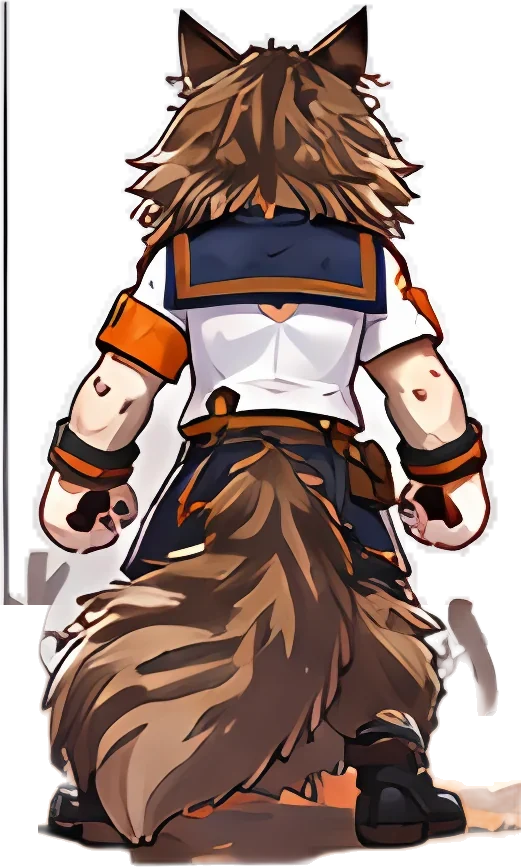
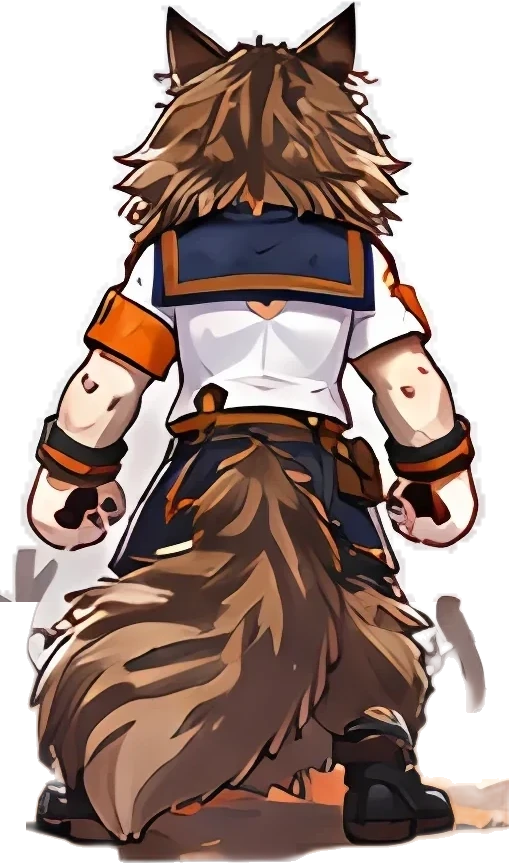
고양이 크기 통일: 전투 그림을 폭 대신 '키' 기준으로
- 뒷모습 20종 모두 귀~발끝 전신이라 같은 키로 그리면 몸집이 맞음 (꼬리·털이 넓은 고양이가 작아 보이던 문제 해결)
- 공격 포즈는 자세별 몸집 보정값으로 머리 크기를 뒷모습과 맞춤
- 그림 가장자리의 얇은 선·조각 제거 (메인쿤·흰둥이 등)
- 공격 포즈가 있는 고양이는 등 뒤에 뜨던 빛 덩어리 제거

Claude-Session: https://claude.ai/code/session_012BvuQNGeRVwHR6y1eZW9hy

diff --git a/src/render.ts b/src/render.ts
@@ -911,6 +911,15 @@ function drawEnemy(ctx: Ctx, e: Enemy): void {
 
 // ───────────────────────── 고양이 부대 ─────────────────────────
 
+/** 전투 뒷모습 키 (고양이 크기 s 대비) */
+const BACK_H = 4.2;
+/** 공격 포즈 몸집 보정 (같은 키로 그렸을 때 머리 크기를 뒷모습과 맞춘 값) */
+const ATK_SCALE: Record<string, number> = {
+  cheese: 0.93, godeungeo: 1, huindungi: 1, chaos: 1.06, cheesetabby: 1, tuxedo: 1, samsaek: 1.06, russianblue: 1.32,
+  scottish: 0.85, munchkin: 1.04, persian: 1, mainecoon: 0.9, siamese: 1, cow: 1.15, americanshort: 1.15,
+  abyssinian: 0.94, norwegian: 0.95, ragdoll: 1, sphynx: 1.12,
+};
+
 function drawSquad(ctx: Ctx, game: Game, t: number): void {
   const order = game.squad.filter((m) => m.level > 0).sort((a, b) => a.y - b.y);
   const crowd = order.length >= 6 ? 0.88 : 1;
@@ -955,17 +964,16 @@ function drawSquad(ctx: Ctx, game: Game, t: number): void {
     if (enter > 0) ctx.scale(1 - enter * 0.3, 1 + enter * 0.2);
     const atkArt = m.swing > 0.35 || m.ultT > 0 && m.swing > 0.1 ? getWorld(`atk-${m.def.id}`) ?? (m.slot === 0 ? getWorld('cheese-attack') : null) : null;
     const art = getArt(m.def.id, 'back');
+    // 크기는 '키' 기준으로 통일 (모든 뒷모습이 귀~발끝 전신이라 키가 같으면 몸집도 같아 보임)
+    const backH = s * BACK_H;
     if (atkArt) {
-      // 공격하는 순간엔 공격 포즈 (발 위치를 맞추고, 높이는 평소 뒷모습과 비슷하게)
-      const baseH = art ? (art.naturalHeight / art.naturalWidth) * s * 2.35 : s * 3.3;
-      const h = baseH * 1.04;
+      // 공격 포즈: 웅크리거나 팔을 든 자세라 고양이마다 몸집 보정값을 곱한다
+      const h = backH * (ATK_SCALE[m.def.id] ?? 1);
       const w = (atkArt.naturalWidth / atkArt.naturalHeight) * h;
       ctx.drawImage(atkArt, -w / 2, -h + s * 0.25, w, h);
     } else if (art) {
-      // 일러스트 뒷모습: 공격할 때 살짝 튕기듯
-      // 폭 기준으로 맞춘다 (무릎 아래를 잘라낸 그림도 같은 크기로 보이게)
-      const w = s * 2.35;
-      const h = (art.naturalHeight / art.naturalWidth) * w;
+      const h = backH;
+      const w = (art.naturalWidth / art.naturalHeight) * h;
       ctx.scale(1 + m.swing * 0.05, 1 - m.swing * 0.04);
       ctx.drawImage(art, -w / 2, -h + s * 0.25 - m.swing * 5, w, h);
     } else {
@@ -974,7 +982,7 @@ function drawSquad(ctx: Ctx, game: Game, t: number): void {
       drawCatBackToon(ctx, `sq${m.slot}`, m.def.look, s, t + m.slot, { sleep: sleeping, swing: m.swing });
     }
     ctx.restore();
-    if (!sleeping && m.swing > 0.6) {
+    if (!sleeping && m.swing > 0.6 && !getWorld(`atk-${m.def.id}`)) {
       const fy = m.y - s * 2.6;
       ctx.save();
       ctx.globalAlpha = (m.swing - 0.6) * 2.5;
